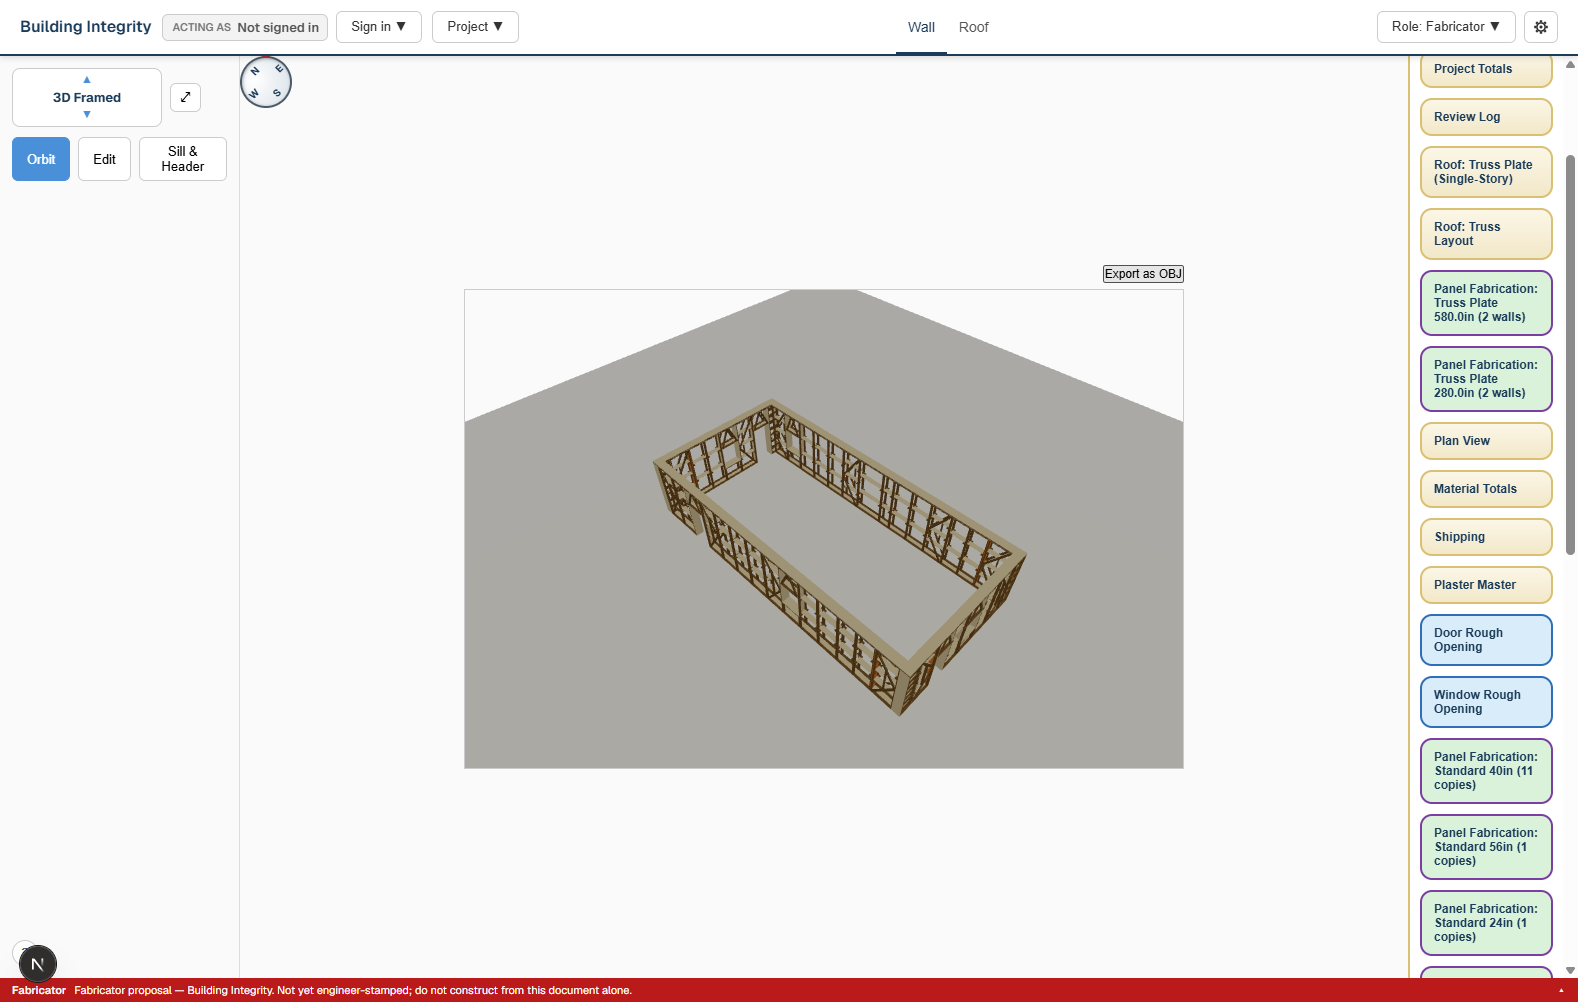
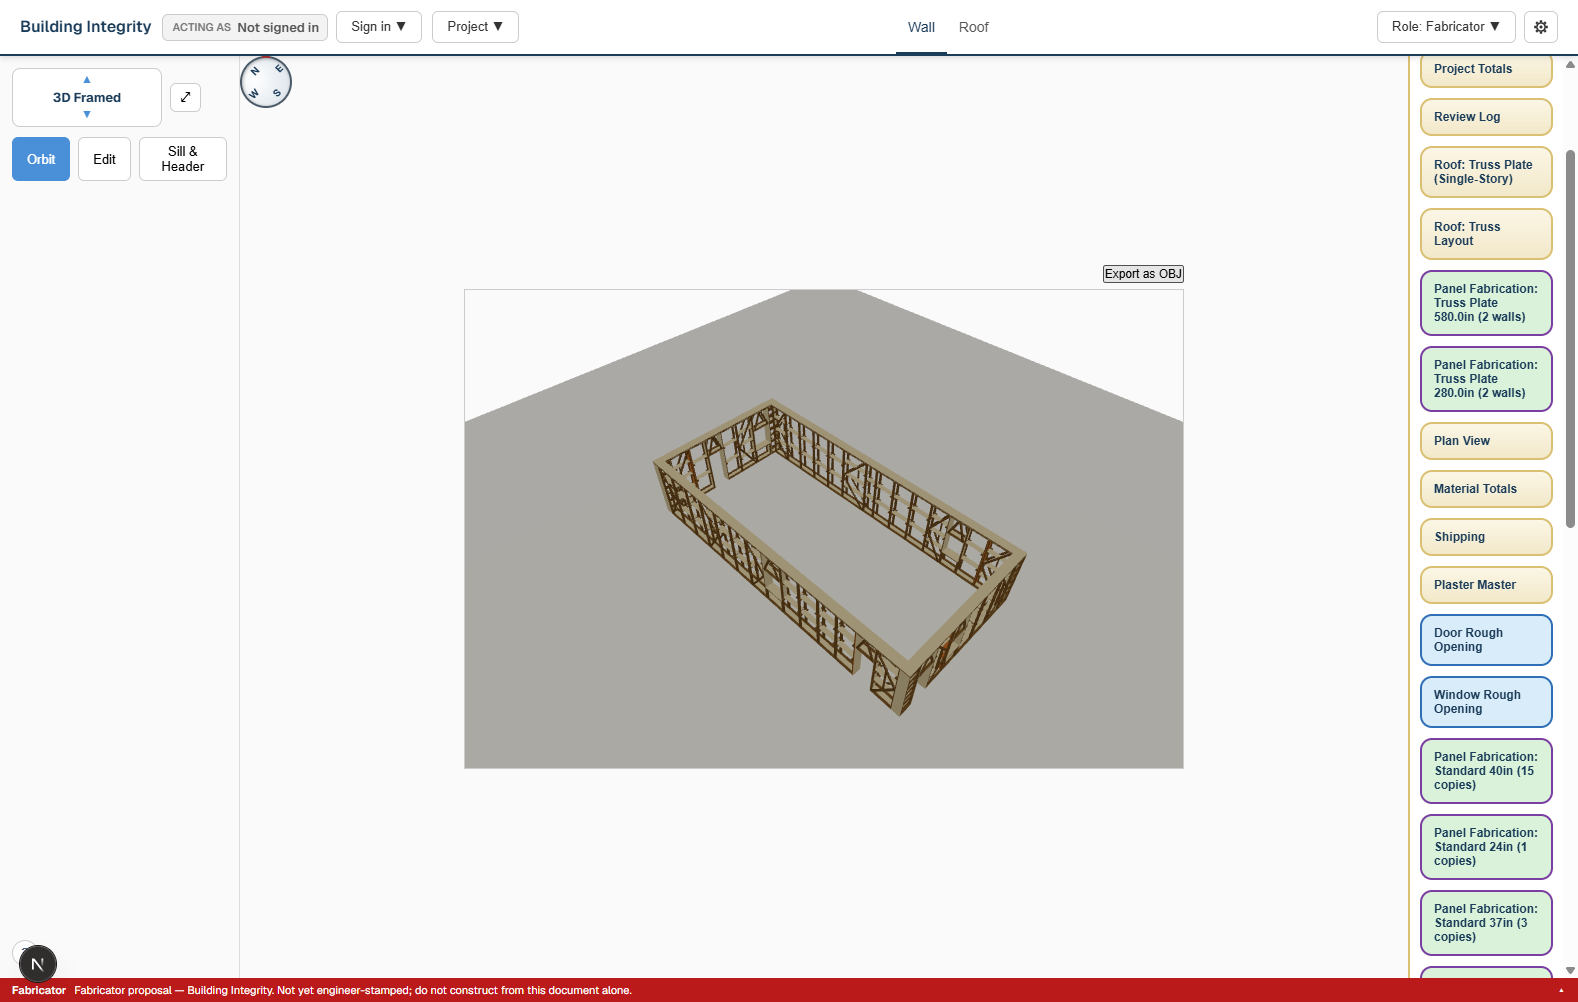
Smearforn 3, part 17: Tommy settles the truss plate, and an honest lint delta
TRUSS PLATE LAPS THE CORNER — Tommy, 2026-09-25, recorded as a decision
rather than left as inherited behaviour. On a butting wall the fabrication
sheet cuts the plate to the full wall line, up to ~31in longer than the
panel run beneath it, and that is CORRECT: top plates lap at the corners,
and a plate stopping where each panel run stops would leave every corner
unplated. No code change; the reason is now on the record.

The spec, the 3D comment and the harness comment now all keep this apart
from the 3D roof-bearing ANCHOR offset, which got conflated with it once.
They are different: the cut length reaches a real shop sheet and is settled;
the anchor is render-only (`widthFt` comes from `seg.lengthIn` and never
touches the fabrication path), still open, and still bounded by the harness
so it cannot grow unnoticed.

LINT — the earlier "zero delta" claim was WRONG and is corrected rather
than quietly restated. It counted errors only, while the defect it should
have caught (`gableTilesByWallId` not depending on the stop map) is a
WARNING; it was also unmeasurable then, because ESLint OOM'd at the default
heap on page.tsx. Re-measured including severity-1:

  page.tsx      errors 63 -> 63,  warnings 25 -> 23
  six others    errors 31 -> 31,  warnings  5 ->  5

Strictly better than baseline. Both closed warnings are pre-existing missing
deps: one on `wallRenderOffsetIn`, and one on `gableTilesByWallId`, which
[…]

diff --git a/apps/web/app/page.tsx b/apps/web/app/page.tsx
@@ -31,7 +31,6 @@ import {
   computeWallVerticalBandsForSlotWithMaxHeight,
   effectiveZonesForSlot,
   partitionLongHeaders,
-  cornerOwnership as cornerOwnershipPure,
   dragWallBounded,
   editWallLength,
   footprintIsAllRightAngles,
@@ -2015,12 +2014,16 @@ export default function LayoutEditor() {
   // packages/geometry/src/retile.ts for the full rationale, including the
   // reflex-corner gap fix that was originally verified by direct pixel
   // measurement). They take this component's panel parameters as explicit
-  // arguments rather than closing over them, so these 3 names are
+  // arguments rather than closing over them, so these names are
   // intentionally shadowed for the rest of this component with thin
   // partial applications supplying `thicknessIn`/`standardWidthIn`/
   // `cornerPanelWidthIn`/`bracedSeed` — every call site below already
   // expects the closure-capturing signature these provide.
-  const cornerOwnership = (fp: Footprint, primary: Set<string>) => cornerOwnershipPure(fp, primary, thicknessIn);
+  //
+  // (A `cornerOwnership` wrapper used to sit here too. Its last caller was
+  // `wallRenderOffsetIn`, which now reads `runStartOffsetIn` off
+  // `wallGeometryFor` so that the inset, the reflex extension and the Stage 3
+  // stop are folded in one place. Removed rather than left unused.)
   // `{}` (default randomFn = Math.random) — Tommy's own confirmed soft
   // default: every freshly-tiled wall gets 1 default window, plus 1
   // default door on an East/South/West-facing wall. See retile.ts's own
@@ -3624,7 +3627,6 @@ export default function LayoutEditor() {
     for (const wall of footprint.walls) {
       if (!gableEndWallIds.has(wall.id)) continue;
       const wallLengthIn = wall.lengthFt * 12;
-      const storedPositions = gableProfilePositionsInByWallId[wall.id] ?? [];
       // Default position: the single midpoint for a peaked (1-point) profile,
       // or a symmetric flat run spanning the middle third for a flat-top
       // (2-point) profile — same "auto-centered, never snaps" convention the

diff --git a/apps/web/app/Building3DView.tsx b/apps/web/app/Building3DView.tsx
@@ -1259,10 +1259,18 @@ export default function Building3DView({
         // Run-relative segment position + where the run itself starts. Only
         // the run STOP is added here: a wall that butts a longer neighbour
         // has its slots start `thicknessIn` in as well, and this anchor has
-        // always ignored that. That is a PRE-EXISTING offset on butting
-        // walls, unrelated to Stage 3 and deliberately not changed here —
-        // fixing it would move the roof-bearing render on every existing
-        // two-story project. Noted rather than silently left.
+        // always ignored that. That is a PRE-EXISTING, RENDER-ONLY offset on
+        // butting walls, unrelated to Stage 3 and deliberately not changed
+        // here — fixing it would move the roof-bearing render on every
+        // existing two-story project. Still open; noted rather than silently
+        // left.
+        //
+        // **Not to be confused with the plate's CUT LENGTH**, which is a
+        // different question with a different answer. This memo's `widthFt`
+        // comes from `seg.lengthIn` and never reaches a fabrication sheet;
+        // the sheet is cut by `roofBearingFabricationGroups`, and Tommy
+        // settled on 2026-09-25 that it correctly spans the full wall line
+        // because top plates LAP AT THE CORNERS. The two got conflated once.
         const offsetFt = (seg.startXIn + runStop.startStopIn) / IN_PER_FT;
         result.push({
           wallId: wall.id,

diff --git a/building_integrity_app_spec.md b/building_integrity_app_spec.md
@@ -2892,6 +2892,24 @@ Four smaller fixes alongside it: the multi-story roof-bearing **position** (`com
 
   **This is the first thing in Stage 3 where a stop on one wall changes another wall's tiling**, so the safety argument is written into the function and asserted: only a CONVEX loser carries an inset, so reflex corners are untouched by construction (tested on a bumped-out shape with every wall stopped at both ends); the adjustment only ever makes a wall LONGER, so no wall's own "is my corner built" answer can change as a result and one pass reaches a fixed point; and a stopped wall can never take the merged-corner branch, since merging needs corners at both ends. Consequently a stop now re-tiles **every** wall through the house's own lossless `retilePreservingOpenings` path, and the refusal checks every wall on both stories.
 
+#### The truss plate LAPS THE CORNER — SETTLED by Tommy, 2026-09-25
+
+The question came out of the Stage 3 audit and is now answered, so it is recorded as a decision rather than left as inherited behaviour.
+
+**What the code does:** on a butting wall with no stop, `builtWallLengthInByWallId` is the **raw** wall length, so the fabrication sheet cuts a truss plate to the full wall line — up to two wall-thicknesses (~31in) longer than the panel run beneath it.
+
+**Tommy: that is correct, and it is standard top-plate framing — plates lap at the corners.** A plate that stopped where each panel run stops would leave every corner unplated. So the cut length stands, unchanged, and the reason is on the record instead of being a coincidence of which length the code happened to read.
+
+**⚠ Do not conflate this with the 3D roof-bearing ANCHOR offset.** They were conflated once and they are different things:
+
+| | Truss-plate cut length | 3D roof-bearing anchor |
+|---|---|---|
+| Where | `roofBearingFabricationGroups` → a real shop sheet | `roofBearingRenderData` → `widthFt` from `seg.lengthIn` |
+| Cuts a part? | **Yes** | **No** — render-only, never reaches the fabrication path |
+| Status | **Settled: laps the corner, correct as-is** | **Still open**, and only a render question |
+
+The anchor still measures from the wall's true corner and ignores the butt-joint inset, so a two-story wall's beam can sit up to a wall thickness off where its panels are. That is pre-existing, render-only, and deliberately untouched by Stage 3 — fixing it would move the roof-bearing render on every existing two-story project. The harness pins it as a **bounded** discrepancy (plate length ≥ panel run, and no more than two wall-thicknesses over) so it cannot grow unnoticed. It stays open on its own terms.
+
 #### The browser harness — `apps/web/harness/smearforn-stage-3/`
 
 14 asserted checks, all passing. **The trick that makes the 3D assertions exact:** the 3D view is WebGL, so a pixel diff cannot tell "the plate is stale" from "the panels moved" — but `Export as OBJ` builds its geometry from the same memos the scene renders, so intercepting that blob gives a precise textual model of the scene. The memo pin sets a stop, then forces a recompute by touching a dependency the memo DOES list; a scene that changes as a result was stale.
@@ -2929,7 +2947,18 @@ Run as an acceptance criterion, against the code rather than assumed. **Four tot
 
 **Point 6, stated rather than buried: "a stop that reaches a corner takes the corner panel with it" is an INFERENCE**, and the plan says so. It is implemented, and it is labelled an inference in `applyWallRunStop`'s own doc comment rather than presented as a decision. If Tommy ever says a stopped wall still gets its corner panel, that is one branch in one function.
 
-**Verified:** `npx vitest run` green — **112 files, 2104 tests** (111 / 2040 before). `tsc --noEmit` clean in `apps/web` **and in `packages/geometry`** — the latter added after the orphan-corner pass, because `wallGeometryFor`'s signature change was silently accepted in a geometry test file that `apps/web`'s tsconfig never sees. (Two pre-existing errors in `bracedPlacement.test.ts` predate this branch and are untouched.) Lint: **94 pre-existing errors across the files touched, zero delta**, measured baseline-vs-branch by rule and message, not by total. **Browser-verified:** `apps/web/harness/smearforn-stage-3/`, 14 of 14 asserted checks.
+**Verified:** `npx vitest run` green — **112 files, 2105 tests** (111 / 2040 before). `tsc --noEmit` clean in `apps/web` **and in `packages/geometry`** — the latter added after the orphan-corner pass, because `wallGeometryFor`'s signature change was silently accepted in a geometry test file that `apps/web`'s tsconfig never sees. (Two pre-existing errors in `bracedPlacement.test.ts` predate this branch and are untouched.) **Browser-verified:** `apps/web/harness/smearforn-stage-3/`, **15 of 15 asserted checks**.
+
+**Lint, and a claim that had to be corrected.** Final state vs. the base commit, by rule and message:
+
+| | errors | warnings |
+|---|---|---|
+| `page.tsx` baseline → final | 63 → 63 | 25 → **23** |
+| the six other editor files | 31 → 31 | 5 → 5 |
+
+**An earlier "zero lint delta" claim in this section was wrong**, and it was wrong in the way that matters: it counted **errors only**, while the defect it should have caught — `gableTilesByWallId` not depending on the stop map — is a *warning*. It was also unmeasurable at the time, because ESLint OOM'd at the default 2GB heap on `page.tsx`; that is fixed (`npm run lint` now runs node with `--max-old-space-size=4096`) and is what surfaced the defect.
+
+The two warnings that went away are both pre-existing missing-dependency warnings this work closed: one on `wallRenderOffsetIn` (its `cornerOwnership` wrapper is gone — `runStartOffsetIn` folds the inset, the reflex extension and the stop into one place), and **one on `gableTilesByWallId`, which was already missing `gableStructuralPanelWallIds` at the base commit** — meaning toggling the structural column did not recompute the gable row either, a latent bug of exactly the same shape, closed incidentally.
 
 Tommy: *"We need an addition tool setting or stop wall tool so that it is possible to make incomplete walls."*
 

diff --git a/apps/web/AGENTS.md b/apps/web/AGENTS.md
@@ -10,10 +10,13 @@
   `--max-old-space-size=4096`. Run it from `apps/web` — the flat config
   lives there, and from the repo root ESLint reports a migration error and
   writes nothing.
-- **Measure a lint DELTA, not a total.** This app carries pre-existing
-  errors (94 across the editor files as of 2026-09-25), so "eslint reported
-  errors" means nothing on its own. Compare rule+message counts against the
-  base commit.
+- **Measure a lint DELTA, not a total, and count WARNINGS too.** This app
+  carries pre-existing errors (94 across the editor files as of
+  2026-09-25), so "eslint reported errors" means nothing on its own.
+  Compare rule+message counts against the base commit — **including
+  severity-1 warnings**. A "zero delta" claim that counted only errors once
+  missed a live `react-hooks/exhaustive-deps` warning on a memo that fed the
+  cut list, which is a warning that cuts real parts wrong.
 
 # This is NOT the Next.js you know
 
